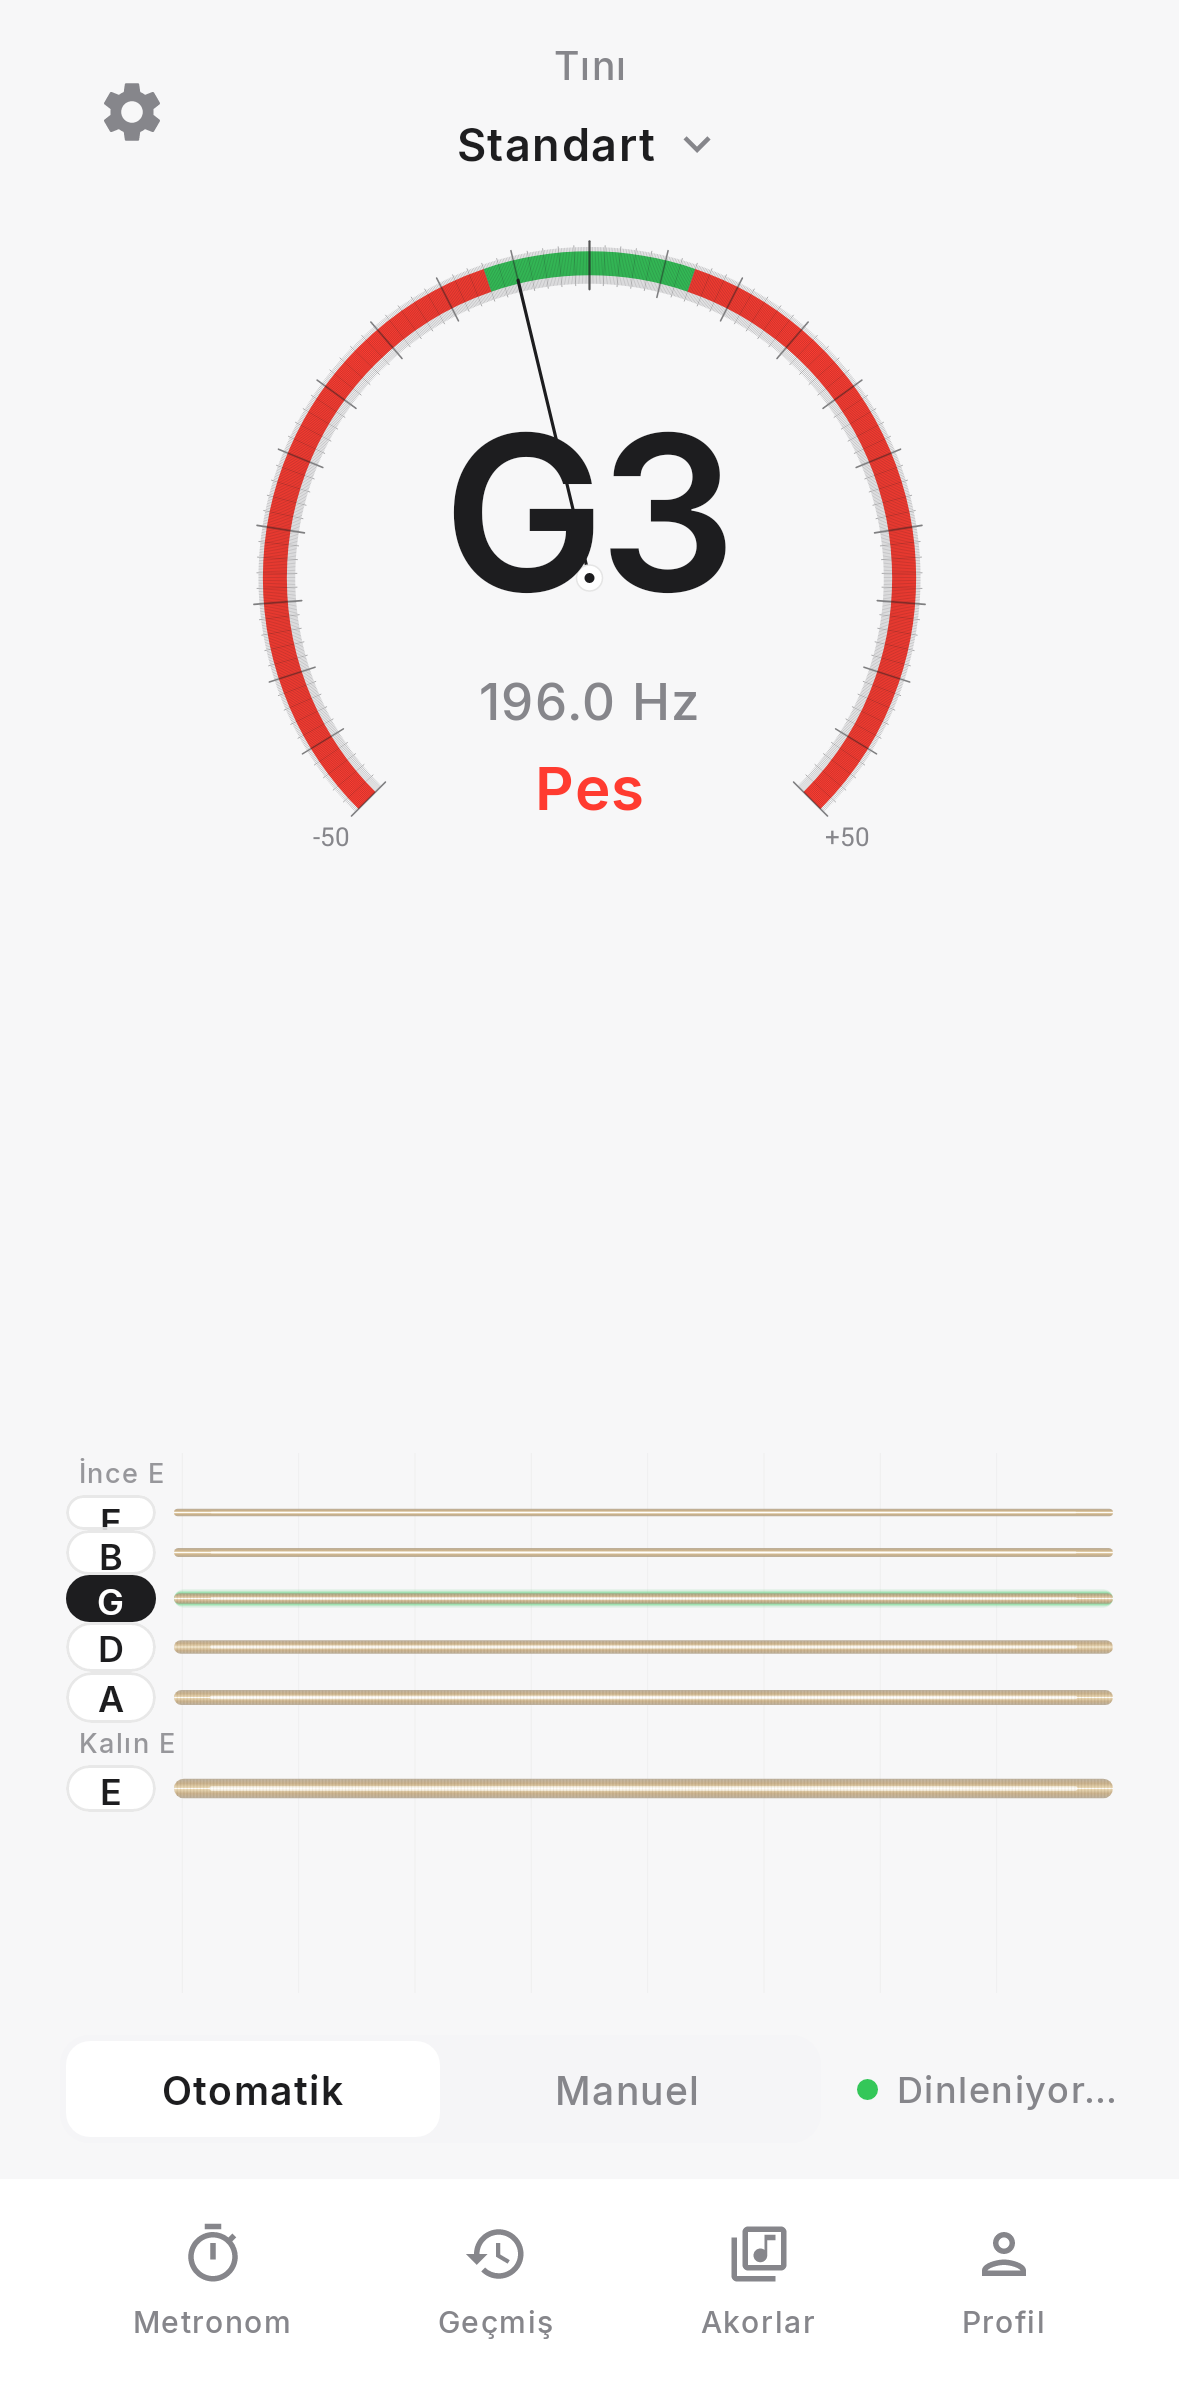
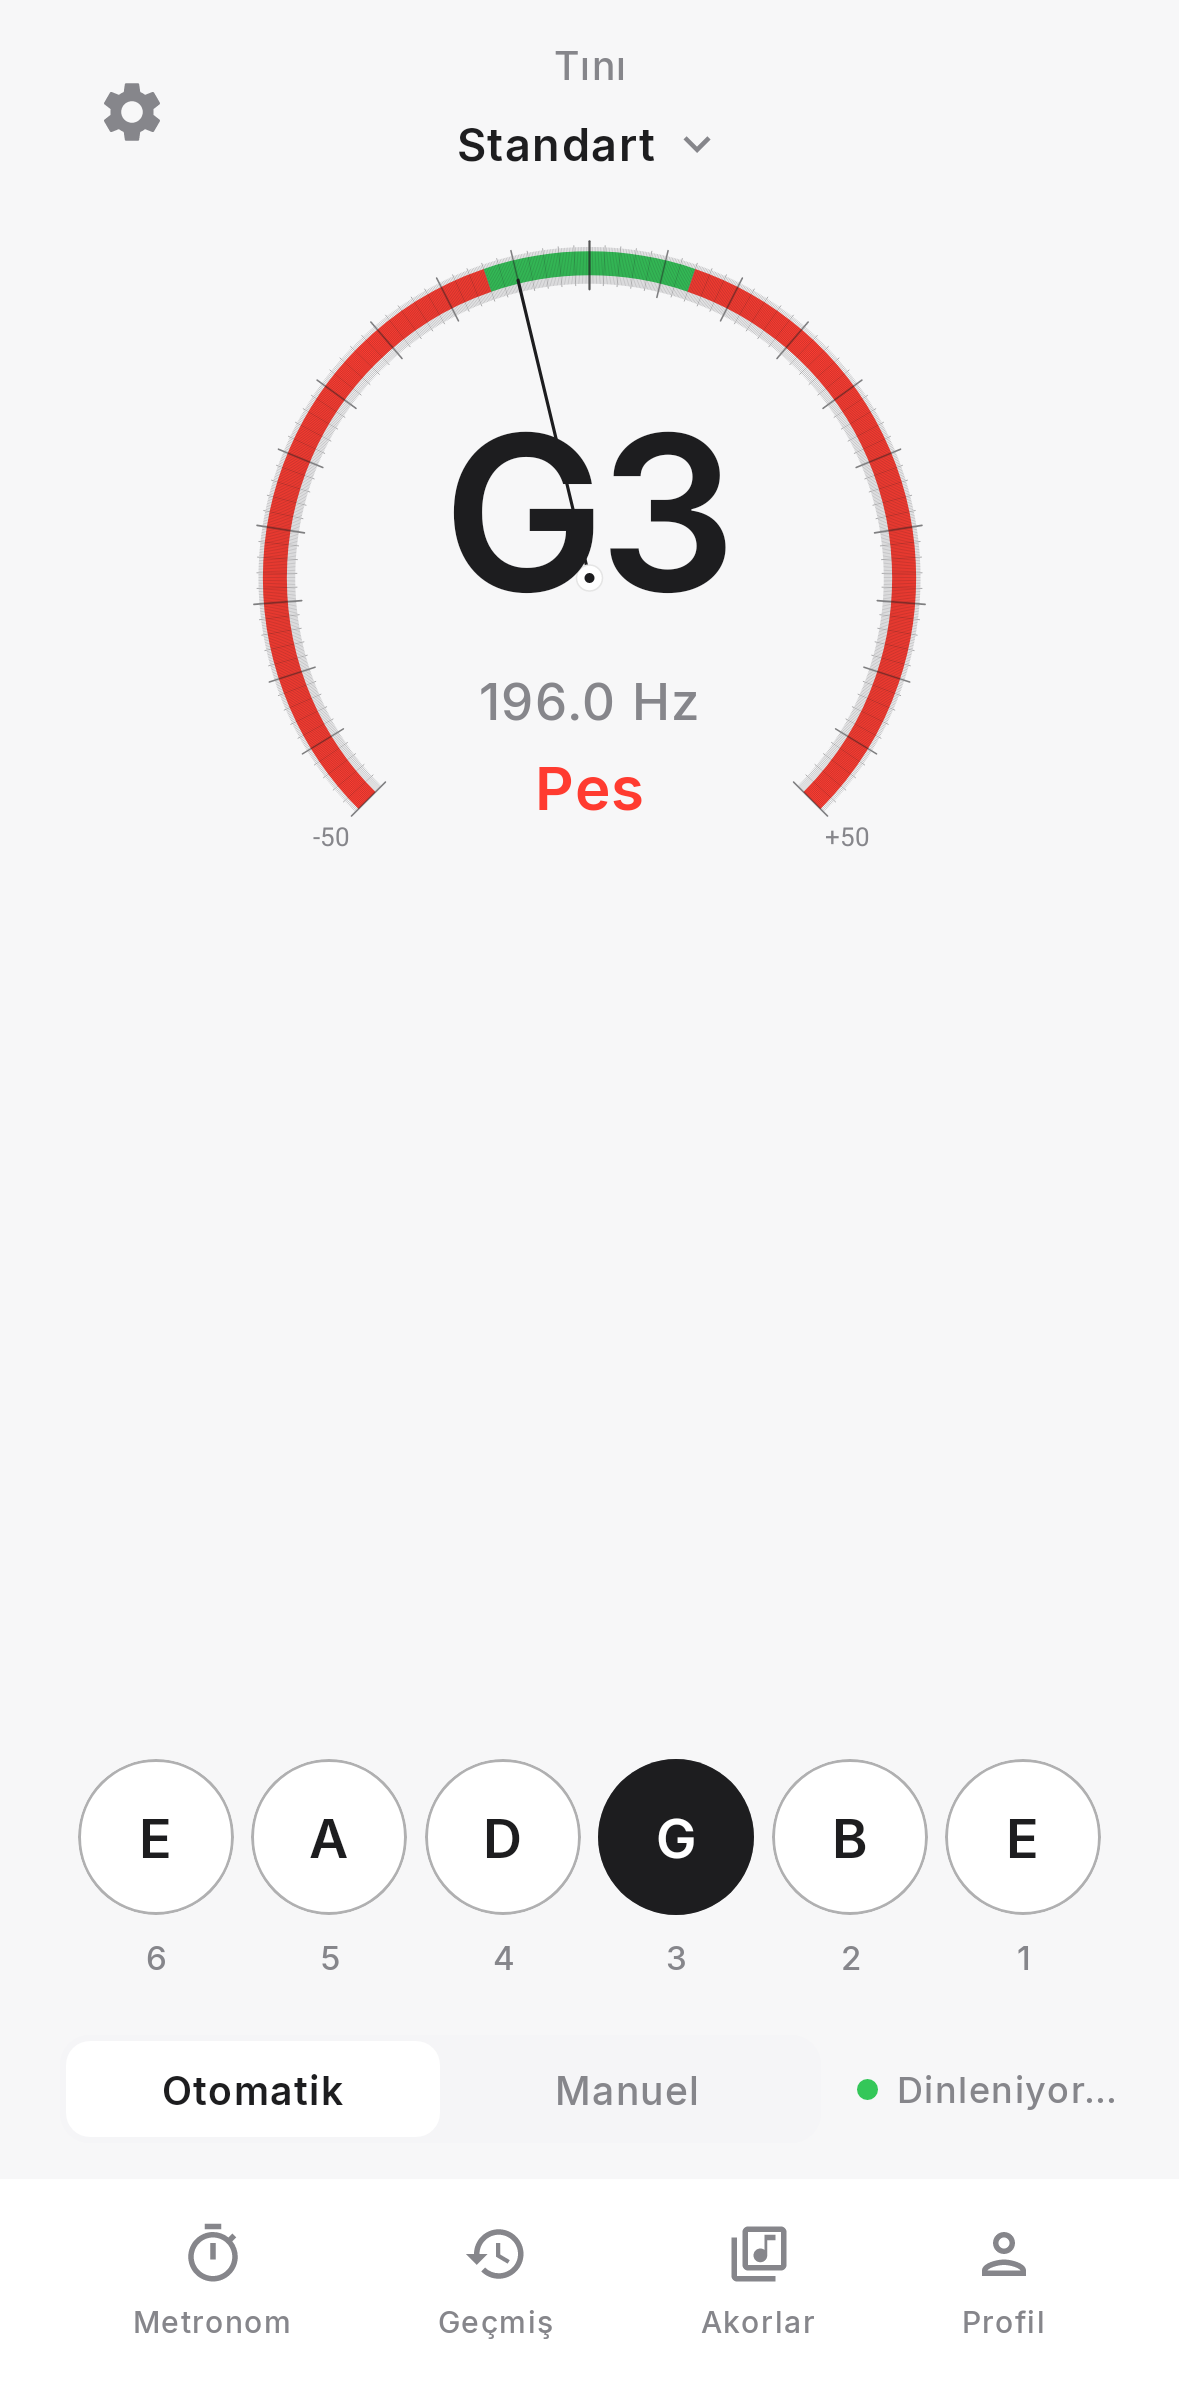
feat(ui): v3.8 circular note string picker
Replace the horizontal champagne wire selector with flat E–A–D–G–B–E circles (6–1 labels, black fill when selected). Keep the v3.7 analog dial and header spacing unchanged.

Changed region(s): [[0.0611, 0.6205, 0.9466, 0.8067]]

diff --git a/app/src/main/java/com/tini/tuner/TunerScreen.kt b/app/src/main/java/com/tini/tuner/TunerScreen.kt
@@ -119,10 +119,9 @@ fun TunerScreen(
 
             Spacer(modifier = Modifier.weight(1f))
 
-            HorizontalNeckStringSelector(
+            CircularNoteStringPicker(
                 strings = getStringNames(uiState.currentTuning),
                 selectedIndex = uiState.selectedStringIndex,
-                isTuned = uiState.tuningState?.isInTune == true,
                 onStringSelected = onStringSelected
             )
 
@@ -389,6 +388,75 @@ fun HorizontalCentRuler(
         )
     }
 }
+
+@Composable
+fun CircularNoteStringPicker(
+    strings: List<String>,
+    selectedIndex: Int,
+    onStringSelected: (Int) -> Unit,
+    modifier: Modifier = Modifier
+) {
+    val colors = AppColors
+    BoxWithConstraints(
+        modifier = modifier.fillMaxWidth()
+    ) {
+        val buttonSize = minOf(52.dp, (maxWidth - 8.dp) / strings.size.coerceAtLeast(1))
+
+        Row(
+            modifier = Modifier
+                .fillMaxWidth()
+                .padding(vertical = 8.dp),
+            horizontalArrangement = Arrangement.SpaceEvenly,
+            verticalAlignment = Alignment.Top
+        ) {
+            strings.forEachIndexed { dataIndex, note ->
+                val selected = dataIndex == selectedIndex
+                val stringNumber = strings.size - dataIndex
+                Column(
+                    horizontalAlignment = Alignment.CenterHorizontally,
+                    modifier = Modifier.clickable { onStringSelected(dataIndex) }
+                ) {
+                    Box(
+                        modifier = Modifier
+                            .size(buttonSize)
+                            .clip(CircleShape)
+                            .background(
+                                if (selected) colors.TextPrimary
+                                else colors.Surface
+                            )
+                            .border(
+                                width = if (selected) 0.dp else 1.dp,
+                                color = colors.TextPrimary.copy(alpha = 0.35f),
+                                shape = CircleShape
+                            ),
+                        contentAlignment = Alignment.Center
+                    ) {
+                        Text(
+                            text = badgeLetter(note),
+                            fontSize = if (note.length > 1) 14.sp else 18.sp,
+                            fontWeight = FontWeight.SemiBold,
+                            color = if (selected) Color.White else colors.TextPrimary,
+                            fontFamily = InterFont,
+                            maxLines = 1
+                        )
+                    }
+                    Spacer(modifier = Modifier.height(6.dp))
+                    Text(
+                        text = stringNumber.toString(),
+                        fontSize = 11.sp,
+                        fontWeight = FontWeight.Medium,
+                        color = colors.TextSecondary,
+                        fontFamily = InterFont,
+                        textAlign = TextAlign.Center
+                    )
+                }
+            }
+        }
+    }
+}
+
+private fun badgeLetter(note: String): String =
+    if (note.length <= 2) note else note.take(1)
 
 @Composable
 fun MinimalStringSelector(

diff --git a/README.md b/README.md
@@ -259,10 +259,13 @@ Tini_app/
 - [x] Ses/akort profili kaydetme ve paylaşma (JSON)
 - [x] Bas gitar ve ukulele desteği
 
-### v3.7 ✅ (Mevcut Sürüm)
+### v3.8 ✅ (Mevcut Sürüm)
+- [x] Yatay champagne tel listesi kaldırıldı; onaylı mockup: dairesel E–A–D–G–B–E seçici (6–1 numaralar, seçili siyah dolu daire)
+- [x] Üstte v3.7 analog kadran (başlık boşluğu + clipToBounds) aynı kaldı
+
+### v3.7 ✅
 - [x] Mockup D geri alındı: burgu fotoğrafı ve dairesel tel bitmap’leri kaldırıldı
-- [x] v3.5 yatay tel seçici (rozet + ince champagne teller) geri geldi
-- [x] Üstte analog kadran korundu (başlık çakışması düzeltmesi ile)
+- [x] v3.5 yatay tel seçici (rozet + ince champagne teller) — **v3.8’de dairesel nota seçici ile değiştirildi**
 
 ### v3.6 ✅
 - [x] Mockup D: burgu illüstrasyonu + 2×3 dairesel tel örnekleri (bitmap) — **v3.7’de kaldırıldı**
@@ -338,7 +341,7 @@ Bu proje MIT lisansı altında lisanslanmıştır. Detaylar için [LICENSE](LICE
 ---
 
 **Geliştirici:** [Ekrem Tezcan Sarıdağ](https://github.com/EkremTezcanSaridag)  
-**Versiyon:** 3.7  
+**Versiyon:** 3.8  
 **Son Güncelleme:** 5 Kasım 2026
 
 </div>
